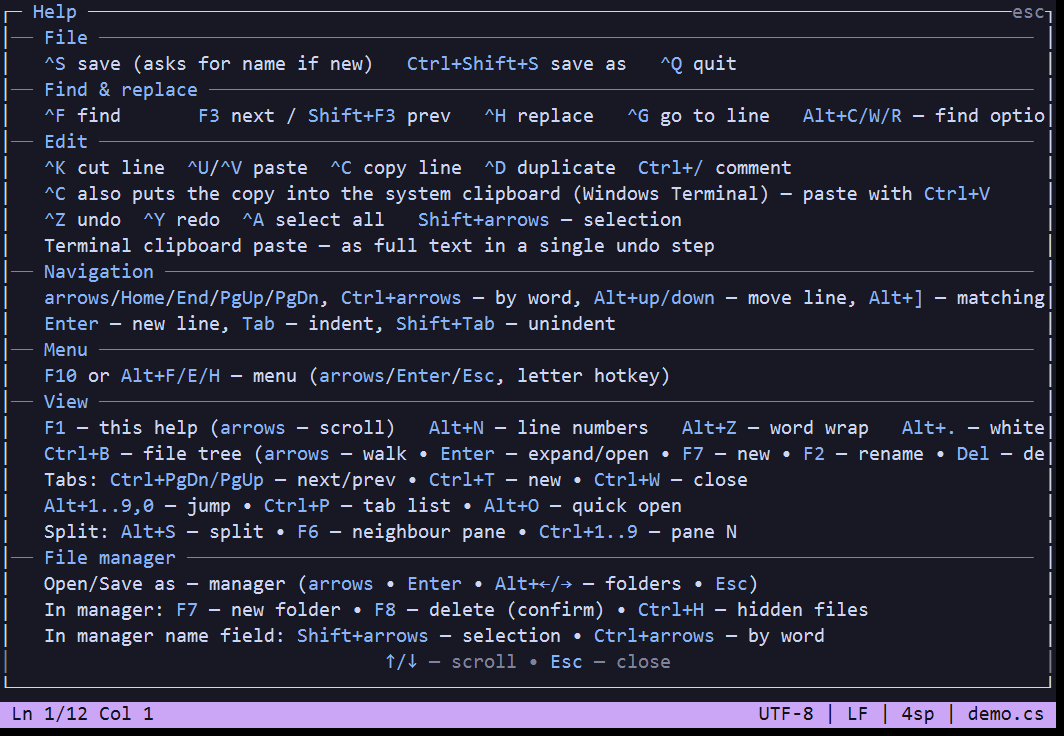
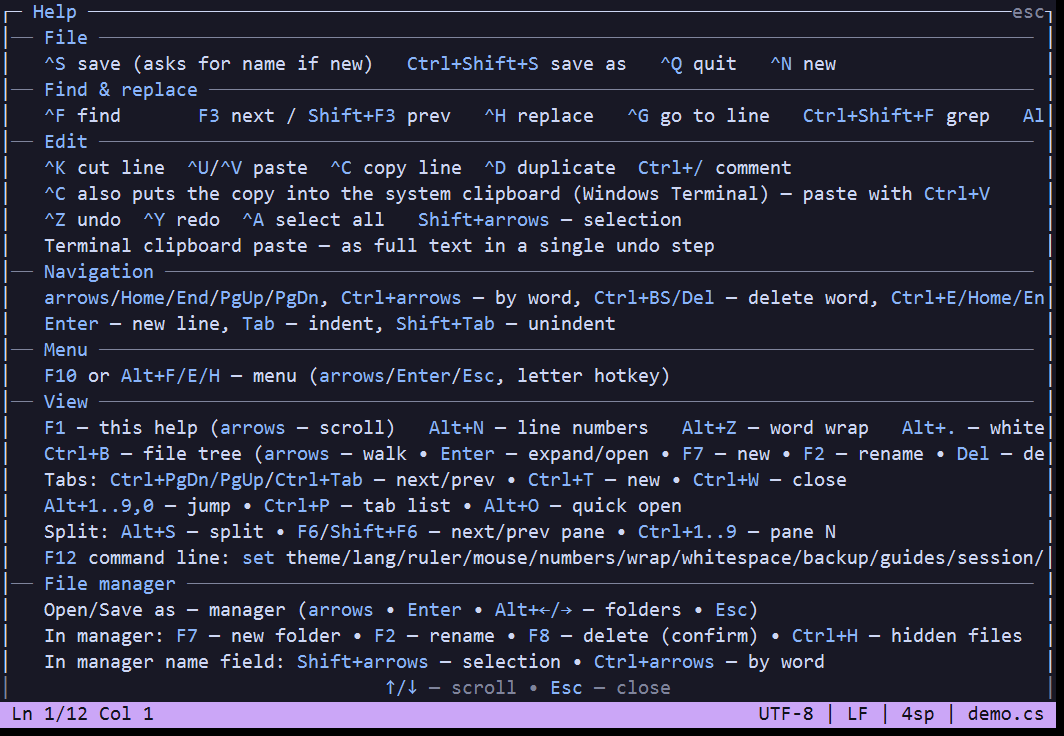
docs(help): full hotkey coverage, set-key list, word-delete palette entries

diff --git a/TuiEdit.Tests/DialogTests.cs b/TuiEdit.Tests/DialogTests.cs
@@ -290,7 +290,7 @@ public sealed class DialogTests : IClassFixture<TempDir>
     public void HelpDialogStructureAndScroll()
     {
         var hd = new HelpDialog(_loc);
-        Assert.Equal(24, hd.TotalRows); // 7 headers + 17 rows, no footer
+        Assert.Equal(25, hd.TotalRows); // 7 headers + 18 rows, no footer
         Assert.Equal(0, hd.Scroll);
         hd.HandleKey(K('\0', ConsoleKey.DownArrow));
         Assert.Equal(1, hd.Scroll);
@@ -300,7 +300,7 @@ public sealed class DialogTests : IClassFixture<TempDir>
         small.Resize(96, 12);
         hd.HandleKey(K('\0', ConsoleKey.End));
         hd.Draw(small, _theme, _loc);
-        Assert.Equal(24 - HelpDialog.VisibleRows(12), hd.Scroll); // clamp to the bottom
+        Assert.Equal(25 - HelpDialog.VisibleRows(12), hd.Scroll); // clamp to the bottom
         hd.HandleKey(K('\0', ConsoleKey.Home));
         hd.Draw(small, _theme, _loc);
         Assert.Equal(0, hd.Scroll);
@@ -395,6 +395,8 @@ public sealed class DialogTests : IClassFixture<TempDir>
         Assert.Contains(all, e => e is SettingEntry s && s.Row == 9);
         Assert.Contains(all, e => e is CommandEntry c && c.Command == EditorCommand.CopyLine);
         Assert.Contains(all, e => e is CommandEntry c && c.Command == EditorCommand.ListTabs);
+        Assert.Contains(all, e => e is CommandEntry c && c.Command == EditorCommand.DelWordBefore);
+        Assert.Contains(all, e => e is CommandEntry c && c.Command == EditorCommand.DelWordAfter);
         // Filter: caption, setting value, and command shortcut.
         Assert.Equal([new SettingEntry(9)],
             CommandPaletteDialog.ApplyFilter(all, "mouse", settings, loc));

diff --git a/Ui/CommandPalette.cs b/Ui/CommandPalette.cs
@@ -167,6 +167,8 @@ internal sealed class CommandPaletteDialog : Dialog
         all.Add(new CommandEntry(EditorCommand.MoveLineDown, loc["palette.cmd.movelinedown"], "Alt+↓"));
         all.Add(new CommandEntry(EditorCommand.FindNext, loc["palette.cmd.findnext"], "F3"));
         all.Add(new CommandEntry(EditorCommand.FindPrev, loc["palette.cmd.findprev"], "Shift+F3"));
+        all.Add(new CommandEntry(EditorCommand.DelWordBefore, loc["palette.cmd.delwordbefore"], "Ctrl+BS"));
+        all.Add(new CommandEntry(EditorCommand.DelWordAfter, loc["palette.cmd.delwordafter"], "Ctrl+Del"));
         all.Add(new CommandEntry(EditorCommand.ListTabs, loc["palette.cmd.listtabs"], "Ctrl+P"));
         all.Add(new CommandEntry(EditorCommand.QuickOpen, loc["palette.cmd.quickopen"], "Alt+O"));
         all.Add(new CommandEntry(EditorCommand.CommandLine, loc["palette.cmd.cmdline"], "F12"));

diff --git a/Ui/HelpDialog.cs b/Ui/HelpDialog.cs
@@ -21,7 +21,7 @@ internal sealed class HelpDialog : Dialog
             (loc["help.sec.edit"], new List<string> { loc["help.k3"], loc["help.k4"], loc["help.k5"], loc["help.k8"] }),
             (loc["help.sec.nav"], new List<string> { loc["help.k6"], loc["help.k7"] }),
             (loc["help.sec.menu"], new List<string> { loc["help.k9"] }),
-            (loc["help.sec.view"], new List<string> { loc["help.k11"], loc["help.k13"], loc["help.k14"], loc["help.k15"], loc["help.k16"] }),
+            (loc["help.sec.view"], new List<string> { loc["help.k11"], loc["help.k13"], loc["help.k14"], loc["help.k15"], loc["help.k16"], loc["help.k18"] }),
             (loc["help.sec.manager"], new List<string> { loc["help.k10"], loc["help.k17"], loc["help.k12"] }),
         };
         _total = _sections.Sum(s => 1 + s.rows.Count);

diff --git a/Core/Startup.cs b/Core/Startup.cs
@@ -66,7 +66,7 @@ internal static class Startup
         Console.WriteLine(loc["help.usage.line"]);
         Console.WriteLine();
         Console.WriteLine(loc["help.keys"]);
-        for (int i = 1; i <= 17; i++)
+        for (int i = 1; i <= 18; i++)
             Console.WriteLine(Dialog.StripSpans(loc[$"help.k{i}"]));
         Console.WriteLine();
         Console.WriteLine(loc["help.status"]);

diff --git a/TuiEdit.Tests/ResourcesTests.cs b/TuiEdit.Tests/ResourcesTests.cs
@@ -64,6 +64,7 @@ public sealed class ResourcesTests
     [InlineData("help.k15")]
     [InlineData("help.k16")]
     [InlineData("help.k17")]
+    [InlineData("help.k18")]
     [InlineData("picker.mkdir.empty")]
     [InlineData("picker.mkdir.exists")]
     [InlineData("modal.delete.confirm")]

diff --git a/README.md b/README.md
@@ -23,21 +23,21 @@ See [CHANGELOG.md](CHANGELOG.md) for release history.
 ## Hotkeys
 
 ```text
-^S save (asks for name if new)   Ctrl+Shift+S save as   ^Q quit
+^S save (asks for name if new)   Ctrl+Shift+S save as   ^Q quit   ^N new
 File menu — Save all, File format (`F9`)
-^F find       F3 next / Shift+F3 prev   ^H replace   ^G go to line
+^F find       F3 next / Shift+F3 prev   ^H replace   ^G go to line   Ctrl+Shift+F grep
   (in Find: Alt+C match case, Alt+W whole words, Alt+R regex)
 ^K cut line  ^U/^V paste  ^C copy line  ^D duplicate
 Ctrl+/ toggle line comment  Alt+] matching bracket
 ^C also puts the copy into the system clipboard (Windows Terminal) — paste with Ctrl+V
 ^Z undo  ^Y redo  ^A select all   Shift+arrows — selection
-arrows/Home/End/PgUp/PgDn, Ctrl+arrows — by word, Alt+up/down — move line
+arrows/Home/End/PgUp/PgDn, Ctrl+arrows — by word, Ctrl+BS/Del — delete word, Ctrl+E/Home/End — doc start/end, Alt+up/down — move line
 Enter — new line, Tab — indent, Shift+Tab — unindent
 F10 or Alt+F/E/H — menu (arrows/Enter/Esc, letter hotkey)
 F1 — help   Alt+N — line numbers   Alt+Z — word wrap   Ctrl+B — file tree (arrows/Enter, F7 new, F2 rename, Del delete)
 F9 — file format (encoding / line endings)   F4 — document stats   F5 — command palette (commands, menus, settings search)   F12 — command line
 F2 — bookmark   Shift+F2 — next bookmark   Alt+- — fold   Ctrl+Space — complete
-Ctrl+PgDn — next tab   Ctrl+PgUp — prev (Ctrl+Tab where the terminal passes it)
+Ctrl+PgDn — next tab   Ctrl+PgUp — prev (Ctrl+Tab / Ctrl+Shift+Tab where the terminal passes them)
 Ctrl+T — new tab   Ctrl+W — close tab
 Alt+1..9,0 — jump to tab   Ctrl+P — tab list   Alt+O — quick open
 ```
